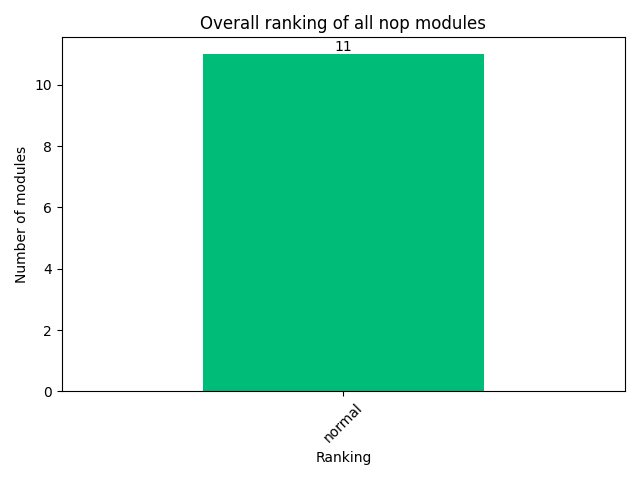
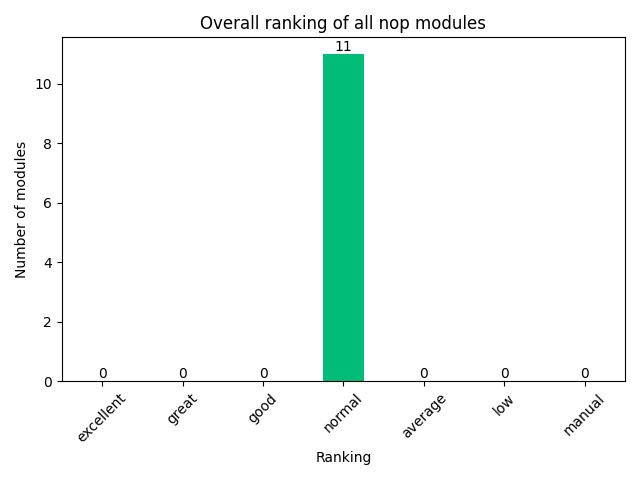
Sort x values according to metasploit rank

diff --git a/plots/create_plots.py b/plots/create_plots.py
@@ -3,7 +3,16 @@ import matplotlib.pyplot as plt
 
 def generate_rankings_plot(module):
     data = pd.read_csv("../csv/" + module + ".csv")
-    df = pd.DataFrame(data, columns=["Rank"]).groupby(["Rank"])["Rank"].count()
+    df = pd.DataFrame(data, columns=["Rank"])
+
+    # Sort according to metasploit ranking score
+    rank_order = ["excellent", "great", "good", "normal", "average", "low", "manual"]
+
+    df.sort_values(by="Rank", key=lambda column: column.map(lambda e: rank_order.index(e)), inplace=True)
+    df = df.groupby(["Rank"])["Rank"].count()
+
+    # Reindex to add missing ranks and fill NaN values with 0
+    df = df.reindex(rank_order, fill_value=0)
 
     # Plot the data using bar() method
     ax = df.plot.bar(color="#00bc79") 
@@ -14,8 +23,8 @@ def generate_rankings_plot(module):
 
     # Rotate x labels
     plt.xticks(rotation=45)
-    
-    # # Save the plot
+
+    # Save the plot
     plt.tight_layout()
     plt.savefig(module + "/overall_ranking.png")
     plt.figure()
